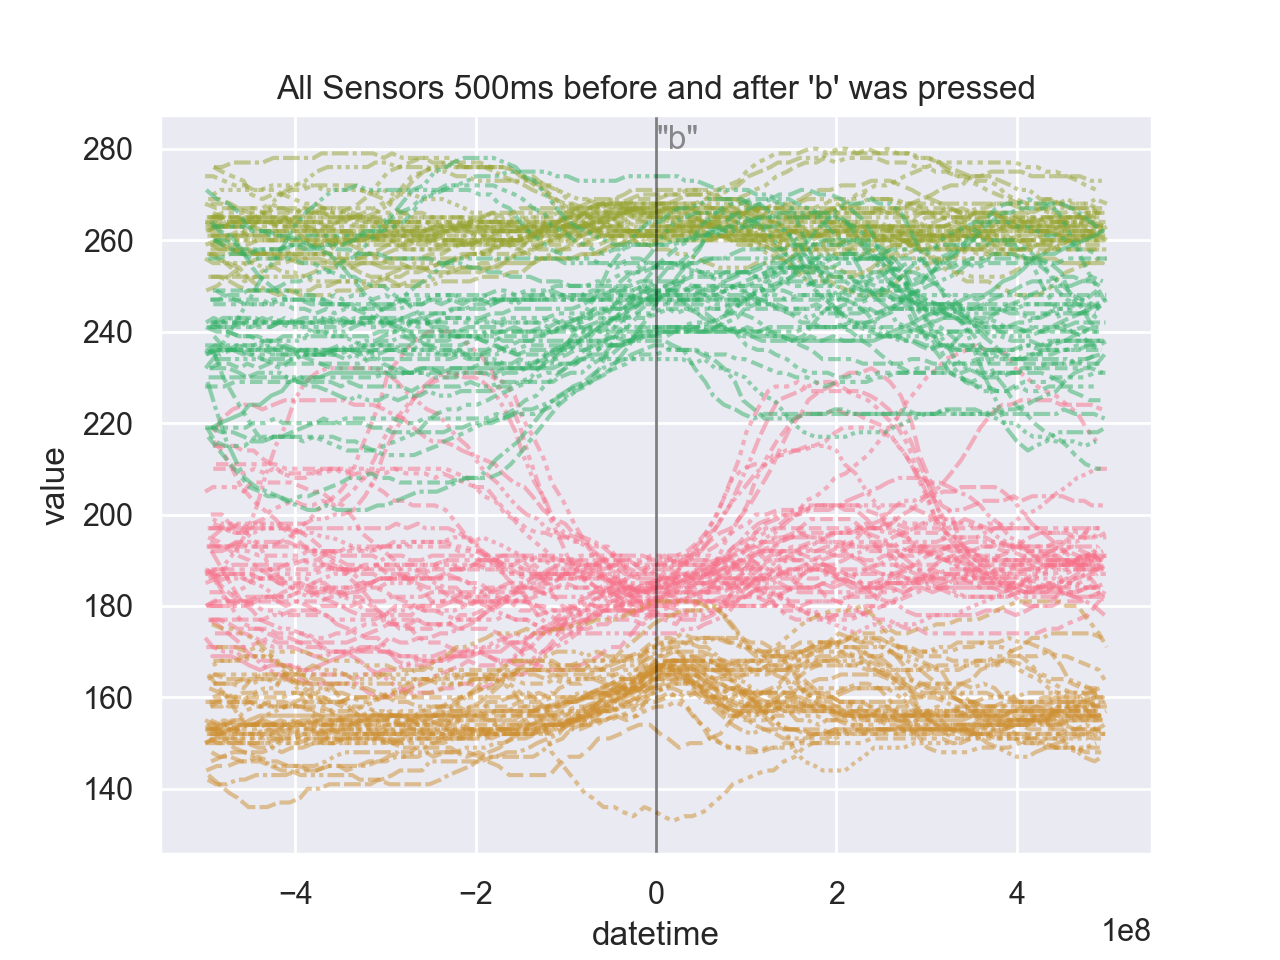
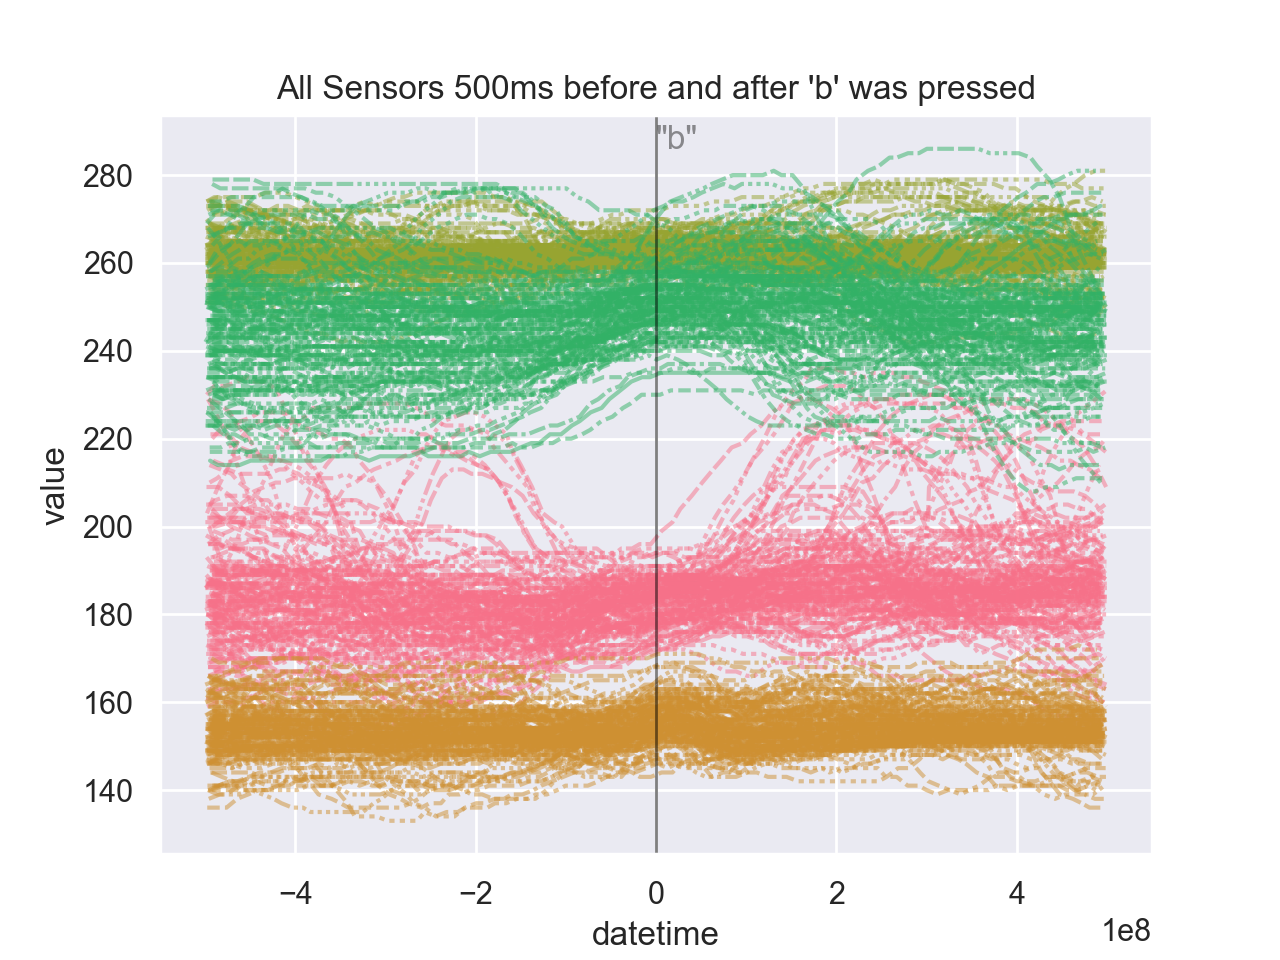
New source data from ch1 of aaiw

diff --git a/README.md b/README.md
@@ -19,8 +19,10 @@ the 'y' key.
 - Glove can detect finger movements of the right fore finger and right middle
   finger (With space to expand to more fingers if these first two actually
   work)
-    - This corresponds to the following keys: `b`, `h`, `i`, `j`, `k`, `m`,
-      `n`, `u`, `y`.
+    - This corresponds to the following keys, shown with how often those keys
+      show up in the current dataset: `h`: 628, `u`: 291, `y`: 171, `m`: 171,
+      `b`: 155, `k`: 120, `j`:  21, 
+
 - Glove records finger movements via an Arduino script `vvim.ino` on an Uno,
   and sends them to serial output.
 - Serial output is read by the python script `glove_logger.py` and saved to the
@@ -37,6 +39,7 @@ the 'y' key.
 - The file `eda.py` saves plots to `plots/` such as:
 
 ## Graphs
+
 Each colour is a differently positioned sensor. Each line is one stream of data
 recorded by a sensor. The streams have each been zeroed so that every instance
 of pressing a certain key is centred.
@@ -85,8 +88,8 @@ hand), but I type it with my middle finger for words like `yes`, `yank`, or
 - Right Hand
     - Thumb: `space`
     - Index: `j`, `m`, `n`, `b`, `h`, `y`
-    - Middle: `k`, `y`, `u`, `i`, `<`, `(`, `[`
-    - Ring: `l`, `:`, `BACKSPACE`, `o`, `p`, `>`, `)`, `]`, `0`, `_`, `-`, `+`, `=`
+    - Middle: `k`, `y`, `u`, `i`, `<`, `(`, `[` 
+    - Ring: `l`, `:`, `BACKSPACE`, `o`, `p`, `>`, `)`, `]`, `0`, `_`, `-`, `+`, `=`, `,`, `.`
     - Pinky: `;`, `ENTER`, `/`, `?`
 - Left Hand (Incomplete as I've not yet built a glove for the left hand)
     - Pinky: 
@@ -123,8 +126,12 @@ sudo keylogger ./keys.log
 python3 glove_logger.py
 ```
 
-4. Put the glove on, and start typing things out. They keystrokes and finger
-   movements will be recorded separately
+4. Put the glove on, and start typing things out. I usually do this by opening
+   a text file (like Alice in Wonderland available on Gutenberg) in vim (`vim
+   alice.txt`), and then splitting the window vertically (`:vsp`), and then
+   opening a temporary file in which to type in (`:e tmp`). Finally, type
+   (`:set cursorbind`) into both frames so that the source text scrolls as you
+   type it.  They keystrokes and finger movements will be recorded separately
 
 5. Remove the glove
 
